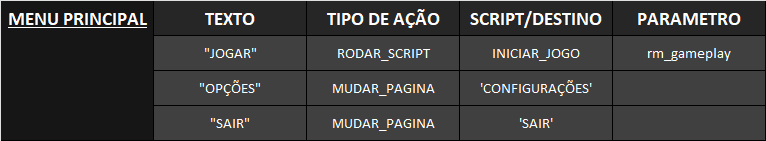
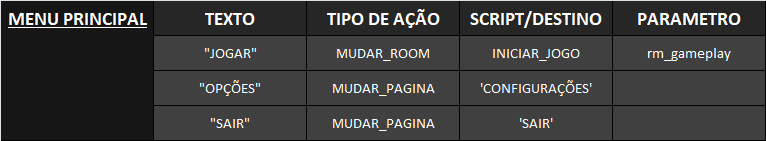
atualizando readme

Changed region(s): [[0.4204, 0.3404, 0.5705, 0.4255]]

diff --git a/README.md b/README.md
@@ -1,9 +1,8 @@
 # GameMakerMenu
 
-![Exemplo de Funcionamento](https://github.com/mneet/GameMakerMenu/blob/main/imagens/vetor_menus.png?raw=true)
-
 ## Funcionamento Básico
 
+![Exemplo de Funcionamento](https://github.com/mneet/GameMakerMenu/blob/main/imagens/vetor_menus.png?raw=true)
 As páginas dos menus são declaradas em arrays bidimensionais, que armazenam as opções presentes em cada menu e a função associada a cada uma delas.
 
 **Exemplo:**
@@ -15,6 +14,7 @@ Neste exemplo, observe:
 - No índice 0, temos o texto que será exibido na tela.
 - No índice 1, especificamos a função dessa opção, como a execução de um script ou a mudança para outra página do menu.
 - No índice 2, indicamos o script ou página de destino associada a essa opção.
+- No índice 3, na primeira opção temos um valor que sera usado como PARAMETRO, mas ele só se encontra quando o tipo de ação é "MUDAR_ROOM"
 
 ### Diferenças Dependendo da Função da Opção
 
@@ -34,4 +34,4 @@ Para criar uma nova página de menu, siga estas etapas:
 
 ## Créditos
 
-Este sistema é baseado no tutorial do canal FriendlyCosmonaut. Você pode assistir ao tutorial original [aqui](URL_DO_TUTORIAL).
+Este sistema é baseado no tutorial do canal FriendlyCosmonaut.
